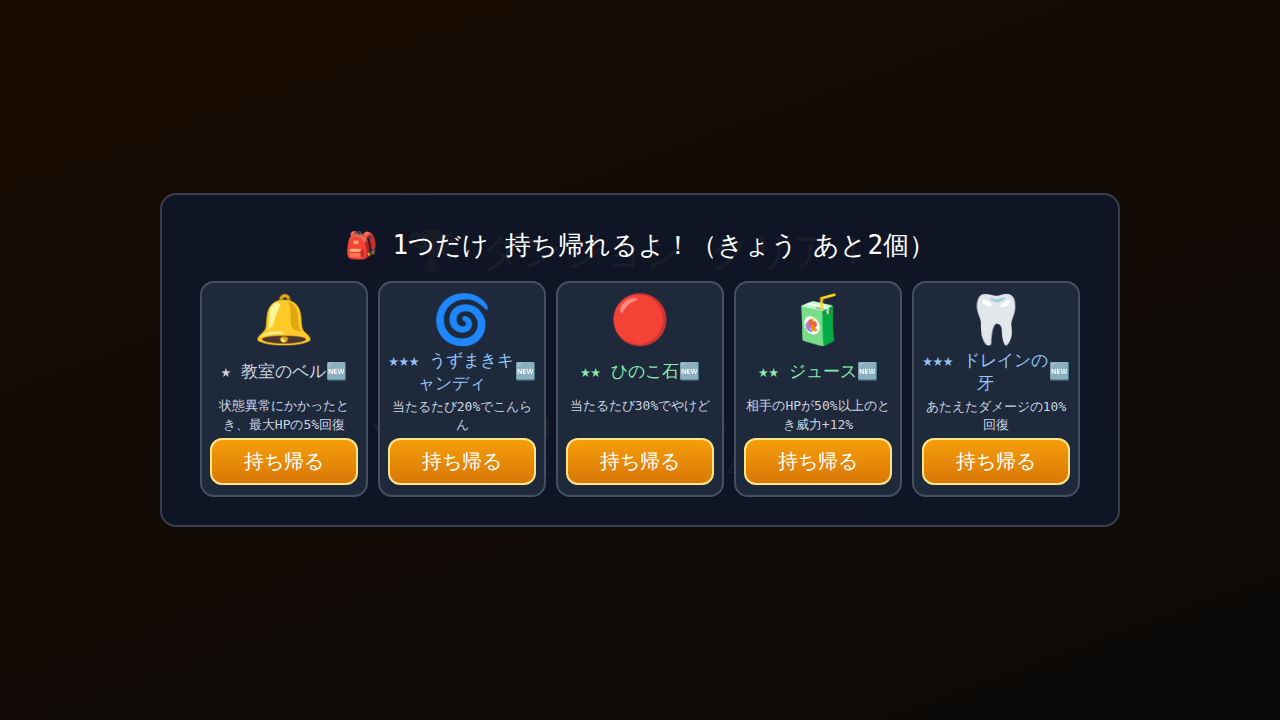
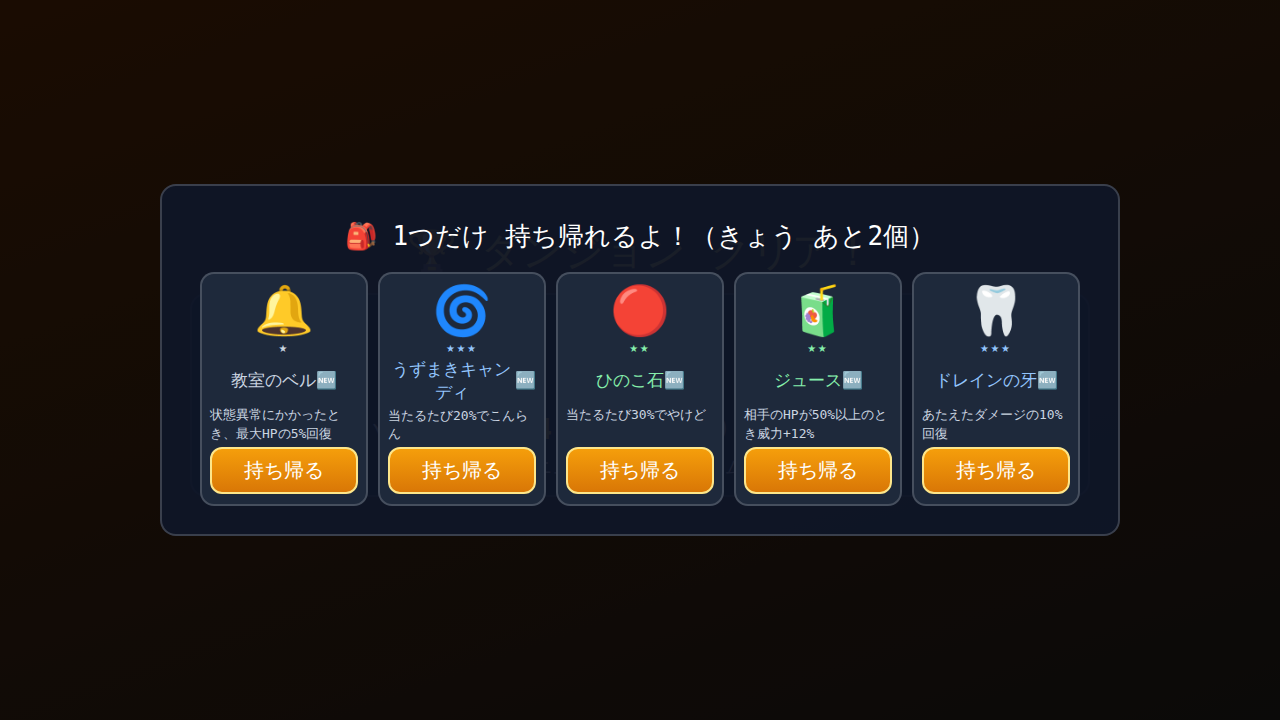
アイテムの説明を見やすく・無限の塔のテンポと入場券
- アイテムの説明：★と名前を別の行、効果は左そろえ、説明の窓を広く
- 無限の塔：問題の窓を閉じずに次の問題を出す
- 無限の塔：正解1問ごとにコイン+1（何周目でも）。25階ごとのコインはやめた
- 無限の塔：塔ごとに1日1回の入場券（くりこしなし）。前の日のつづきでゲームオーバーなら きょうの入場券でもう一度入れる。30分しばりはそのまま
- tools/tower_test.py を追加

Claude-Session: https://claude.ai/code/session_01VSVSxW2cDN42XVaoPQurWi

Changed region(s): [[0.125, 0.3056, 0.875, 0.7639], [0.125, 0.2444, 0.875, 0.275]]

diff --git a/game.js b/game.js
@@ -55,7 +55,7 @@
   function today() { const d = new Date(Date.now() - 5 * 3600e3); return `${d.getFullYear()}-${String(d.getMonth() + 1).padStart(2, '0')}-${String(d.getDate()).padStart(2, '0')}`; }
   function newState(pname, cname) {
     const st = {}; SUBJ.forEach(s => (st[s] = K.START_STAT));
-    return { v: SAVE_V, pname, cname, st, type: '全教科', coins: 0, stamina: K.STAMINA_START, day: today(), owned: [], qs: {}, qd: {}, miss: {}, takeHome: 0, lastBoss: null, dungeons: 0, created: Date.now(), run: null, qv: window.QDB_VERSION || 1, tower: {}, towerBest: {}, towerMs: 0,
+    return { v: SAVE_V, pname, cname, st, type: '全教科', coins: 0, stamina: K.STAMINA_START, day: today(), owned: [], qs: {}, qd: {}, miss: {}, takeHome: 0, lastBoss: null, dungeons: 0, created: Date.now(), run: null, qv: window.QDB_VERSION || 1, tower: {}, towerBest: {}, towerMs: 0, towerTicket: {},
       playDays: 1, clears: 0, bossWin: {}, boss3: {}, bossStg: {}, nocont: 0, typeChanged: false, ach: {}, sel: { title: '', aura: '', bg: '部室' }, fav: [], gachaN: 0 };
   }
   function dayCheck() {
@@ -167,7 +167,7 @@
   }
   function itemCard(n, extra = '') {
     const it = D.ITEM[n]; const isNew = !S.owned.includes(n);
-    return `<div class="itemcard"><div class="ie">${artItem(n)}</div><div class="in r${it.r}">${'★'.repeat(it.r)} ${esc(n)}${isNew ? ' <span class="red">🆕</span>' : ''}</div><div class="id">${esc(it.d)}</div>${extra}</div>`;
+    return `<div class="itemcard"><div class="ie">${artItem(n)}</div><div class="ir r${it.r}">${'★'.repeat(it.r)}</div><div class="in r${it.r}">${esc(n)}${isNew ? ' <span class="red">🆕</span>' : ''}</div><div class="id">${esc(it.d)}</div>${extra}</div>`;
   }
   function showItem(n) {
     return new Promise(res => {
@@ -209,18 +209,21 @@
 
   // ---- 4択（連打対策つき）。答えを押した瞬間に onAnswer が呼ばれる（そこでセーブする）----
   let fastRun = 0;
-  function ask(q, { head = '', fighter = null, onAnswer = null, extra = null, ctl = null, gauge = null } = {}) {
+  // keep：{} をわたすと 窓を閉じずに 次の問題も同じ窓に出す（無限の塔）。おわったら keep.o.remove()
+  function ask(q, { head = '', fighter = null, onAnswer = null, extra = null, ctl = null, gauge = null, keep = null } = {}) {
     return new Promise(res => {
       let done = false;
       const opts = shuffle(q.a.map((t, i) => ({ t, ok: i === 0 })));
       const lock = Math.min(3000, Math.max(1000, 600 + q.t.length * 30));
-      const o = overlay(`<div class="qbox">
+      const html = `<div class="qbox">
         <div class="qh row" style="justify-content:space-between"><span>${D.SUBJ_EMO[q.s]} ${q.s}・${q.g}年 ${head}</span>${gauge ? '<span class="qgw">問題ゲージ <span class="gauge qg"><i></i></span> <b class="qgt"></b></span>' : ''}</div>
         <div class="qt">${esc(q.t)}</div>
         <div class="lockrow"><span>⏳ よく読もう</span><div class="lockbar"><i></i></div></div>
         <div class="opts">${opts.map((p, i) => `<button data-i="${i}" disabled>${esc(p.t)}</button>`).join('')}</div>
         <div class="row" style="justify-content:flex-end;margin-top:8px;min-height:44px"><span class="megane"></span></div>
-        <div class="after"></div></div>`, 'ovq');
+        <div class="after"></div></div>`;
+      const o = keep && keep.o ? keep.o : overlay(html, 'ovq');
+      if (keep) { o.innerHTML = html; keep.o = o; }
       const btns = [...o.querySelectorAll('.opts button')];
       // バトル中：問題ゲージを 窓の中にも出す（後ろのゲージは窓にかくれるため）
       const drawG = () => { if (!gauge) return; const { m, n } = gauge(); const g = o.querySelector('.qg'); g.style.setProperty('--n', n); g.querySelector('i').style.width = Math.min(100, m * 100) + '%'; g.classList.toggle('over', m > 1.001); o.querySelector('.qgt').textContent = '×' + m.toFixed(2); };
@@ -236,7 +239,7 @@
         mb.onclick = () => { fighter.megane--; mb.remove(); let k = 0; btns.forEach((b, i) => { if (!opts[i].ok && k < 2) { b.style.visibility = 'hidden'; k++; } }); };
         o.querySelector('.megane').appendChild(mb);
       }
-      const finish = r => { if (done) return; done = true; o.remove(); res(r); };
+      const finish = r => { if (done) return; done = true; if (!keep) o.remove(); res(r); };
       if (ctl) ctl.cancel = () => finish({ cancel: true });
       if (extra) {
         const xb = document.createElement('button'); xb.className = 'btn-gray'; xb.style.fontSize = '18px'; xb.textContent = extra;
@@ -1623,44 +1626,58 @@
     return `${String(m).padStart(2, '0')}:${String(s).padStart(2, '0')}:${String(c).padStart(2, '0')}`;
   }
   function towerOrder(subj) { if (dbg('allq')) return shuffle(QBY[subj].map(q => q.id)); return [4, 5, 6].flatMap(g => shuffle(QBY[subj].filter(q => q.g === g).map(q => q.id))); }
+  // 入場券：教科ごとに 1日1回（くりこしなし）。前の日からの つづき は 前の日の入場券なので、
+  // そのまま再開でき、ゲームオーバーになっても きょうの入場券で もう一度入れる
+  const towerTicketFree = s => dbg('tower') || (S.towerTicket || {})[s] !== today();
+  function towerState(s) {
+    const t = S.tower[s];
+    if (t && t.order && t.order.length) return { kind: 'cont', t };
+    return towerTicketFree(s) ? { kind: 'new' } : { kind: 'used' };
+  }
   async function towerSelect() {
     dayCheck();
     const left = towerLimit() - S.towerMs;
-    if (left <= 0) { await dialog({ who: '🗼', text: 'きょうは もう のぼれないよ（1日30分まで）\nまた あしたの朝5時から のぼれるよ' }); return; }
+    if (left <= 0) { await dialog({ who: '🗼', text: 'きょうは もう のぼれないよ（1日30分まで）\nまた あしたの朝5時から のぼれるよ' }); return home(); }
     const el = render(`<div class="scr center" style="gap:16px">
       <div class="big">🗼 無限の塔</div>
       <div class="mid">きょうの のこり時間 <span class="gold">${fmtTime(left)}</span></div>
-      <div class="sm dim">1問＝1階。ハート3つ。3回まちがえたら 1階からやりなおし。いつでも中断できるよ</div>
+      <div class="sm dim" style="text-align:center">1問＝1階。正解するたびに 🪙+${K.TOWER_COIN}。ハート3つ。3回まちがえたら おしまい（次は1階から）<br>どの塔も 1日1回 入れる（あしたに くりこせない）。とちゅうで やめても、つづきから 再開できるよ</div>
       <div class="row" id="ts">${SUBJ.map(s => {
-        const t = S.tower[s], top = QBY[s].length;
-        return `<button data-s="${s}" style="width:220px;height:170px;border-color:${D.SUBJ_COLOR[s]};display:flex;flex-direction:column;align-items:center;justify-content:center;gap:4px">
-          <span class="mid">${D.SUBJ_EMO[s]} ${s}</span><span class="sm">${t && t.floor ? `つづきから ${t.floor + 1}階` : '1階から'}</span>
-          <span class="xs">${t ? '❤'.repeat(t.hearts) : '❤❤❤'}</span><span class="xs dim">さいこう ${S.towerBest[s] || 0}階 ／ 頂上 ${top}階</span></button>`;
+        const st = towerState(s), top = QBY[s].length, t = st.t;
+        const line = st.kind === 'cont' ? `<span class="sm gold">▶ つづきから ${t.floor + 1}階</span><span class="xs">${'❤'.repeat(t.hearts)}${'🖤'.repeat(K.TOWER_HEARTS - t.hearts)}</span>`
+          : st.kind === 'new' ? `<span class="sm">🎫 入場できる</span><span class="xs">1階から</span>` : `<span class="sm dim">きょうは 入場ずみ</span><span class="xs dim">また あした</span>`;
+        return `<button data-s="${s}" ${st.kind === 'used' ? 'disabled' : ''} style="width:220px;height:170px;border-color:${D.SUBJ_COLOR[s]};display:flex;flex-direction:column;align-items:center;justify-content:center;gap:4px">
+          <span class="mid">${D.SUBJ_EMO[s]} ${s}</span>${line}<span class="xs dim">さいこう ${S.towerBest[s] || 0}階 ／ 頂上 ${top}階</span></button>`;
       }).join('')}</div>
       <button class="btn-gray" id="bk">🏠 ホームへ</button></div>`, 'dun');
     $('#bk', el).onclick = () => home();
     el.querySelectorAll('#ts button').forEach(b => (b.onclick = () => towerRun(b.dataset.s)));
   }
   async function towerRun(subj) {
-    if (!S.tower[subj] || !S.tower[subj].order.length) { S.tower[subj] = { order: towerOrder(subj), floor: 0, hearts: K.TOWER_HEARTS }; save(); }
+    const st = towerState(subj);
+    if (st.kind === 'used') return towerSelect();
+    if (st.kind === 'new') { // きょうの入場券をつかう
+      S.towerTicket = { ...(S.towerTicket || {}), [subj]: today() };
+      S.tower[subj] = { order: towerOrder(subj), floor: 0, hearts: K.TOWER_HEARTS, day: today() }; save();
+    }
     const tw = S.tower[subj], top = tw.order.length;
     const el = render(`
       <div class="prog"><span class="mid">🗼 ${D.SUBJ_EMO[subj]} ${subj}の塔</span><span class="mid" style="margin-left:24px" id="hearts"></span>
-        <span class="coin">⏱ <b class="gold" id="timer"></b></span></div>
-      <div class="field" style="flex-direction:column;justify-content:center">
-        <div style="font-size:140px;line-height:1">🗼</div><div class="big" id="floor"></div><div class="sm dim" id="best"></div>
-      </div>
-      <div class="msg panel" id="msg" style="width:1232px"></div>
-      <div class="subjbar" id="subj"></div>`, 'dun');
+        <span class="coin"><span class="gold" id="tcoin"></span>　⏱ <b class="gold" id="timer"></b></span></div>
+      <div class="field" style="flex-direction:column;justify-content:flex-start;padding-top:20px;gap:4px">
+        <div style="font-size:120px;line-height:1">🗼</div><div class="big" id="floor"></div><div class="sm dim" id="best"></div>
+      </div>`, 'dun');
+    let got = 0;
     const upd = () => {
       $('#hearts').textContent = '❤'.repeat(tw.hearts) + '🖤'.repeat(K.TOWER_HEARTS - tw.hearts);
       $('#floor').textContent = `${tw.floor + 1}階`;
       $('#best').textContent = `さいこう ${S.towerBest[subj] || 0}階 ／ 頂上 ${top}階`;
+      $('#tcoin').textContent = `🪙 ${S.coins}${got ? `（+${got}）` : ''}`;
     };
     upd();
     // 時計（塔にいる間だけ減る）
     let last = Date.now(), lastSave = Date.now(), timeUp = false;
-    const ctl = {};
+    const ctl = {}, keep = {};
     const tick = setInterval(() => {
       const now = Date.now(); S.towerMs += now - last; last = now;
       const t = $('#timer'); if (t) t.textContent = fmtTime(towerLimit() - S.towerMs);
@@ -1671,47 +1688,38 @@
     try {
       while (!timeUp) {
         if (tw.floor >= top) { endMsg = 'top'; break; }
-        msg(`${tw.floor + 1}階の問題！ 正解すると 上の階へ。 <span class="sm dim">（25階ごとに コインがもらえるよ）</span>`);
         const q = Q[tw.order[tw.floor]];
-        let gotCoin = 0;
+        // 問題の窓は 閉じずに 次の問題を出す（テンポよく）
         const r = await ask(q, {
-          head: `（${tw.floor + 1}階）`, extra: '⏸ 中断してホームへ', ctl,
+          head: `（${tw.floor + 1}階）`, extra: '⏸ 中断する', ctl, keep,
           onAnswer: ok => {
-            if (ok) {
-              tw.floor++;
-              if (tw.floor % K.TOWER_STEP === 0) { // 25階ごと（初めて＋250／2回目から＋25）
-                gotCoin = tw.floor > (S.towerBest[subj] || 0) ? K.TOWER_COIN_FIRST : K.TOWER_COIN_AGAIN;
-                S.coins += gotCoin;
-              }
-              S.towerBest[subj] = Math.max(S.towerBest[subj] || 0, tw.floor);
-            } else tw.hearts--;
-            save();
+            if (ok) { tw.floor++; S.coins += K.TOWER_COIN; got += K.TOWER_COIN; S.towerBest[subj] = Math.max(S.towerBest[subj] || 0, tw.floor); }
+            else tw.hearts--;
+            save(); upd();
           },
         });
         if (r.cancel) break;
         if (r.quit) { endMsg = 'quit'; break; }
-        upd();
-        if (r.ok) { msg(`⭕ ${tw.floor}階 クリア！${gotCoin ? ` <span class="gold">🪙+${gotCoin}</span>` : ''}`); if (gotCoin) floatAt(600, 200, `🪙+${gotCoin}`, '#ffd54a'); }
-        else msg(`💔 ハートが へった…（のこり ${tw.hearts}）`);
-        await wait(900);
+        if (r.ok) floatAt(640, 120, `🪙+${K.TOWER_COIN}`, '#ffd54a');
         if (tw.hearts <= 0) { endMsg = 'over'; break; }
       }
-    } finally { clearInterval(tick); save(); }
+    } finally { clearInterval(tick); if (keep.o) keep.o.remove(); save(); }
     if (timeUp) {
-      await dialog({ who: '⏰', text: 'きょうはここまで！\nセーブしたから大丈夫。また明日つづきから登ろう' });
+      await dialog({ who: '⏰', text: `きょうはここまで！${got ? `（🪙+${got}）` : ''}\nセーブしたから大丈夫。また明日つづきから登ろう` });
       return home();
     }
     if (endMsg === 'over') {
       const f = tw.floor; S.tower[subj] = null; save();
-      await dialog({ who: '💔', text: `ざんねん！ ${f}階まで のぼった\n（さいこう記録 ${S.towerBest[subj] || 0}階）\n次は 1階から やりなおしだよ` });
+      const again = towerTicketFree(subj);
+      await dialog({ who: '💔', text: `ざんねん！ ${f}階まで のぼった（🪙+${got}）\n（さいこう記録 ${S.towerBest[subj] || 0}階）\n${again ? 'きのうの つづきだったので、きょうの入場券で もう一度 1階から 入れるよ' : `${subj}の塔は また あした 1階から 挑戦しよう`}` });
       return towerSelect();
     }
     if (endMsg === 'top') {
       S.tower[subj] = null; save();
-      await dialog({ who: '🏆', text: `${subj}の塔の 頂上に 到達！！ ${top}階\nすごい！ ${subj}の問題を ぜんぶ 解いたよ！` });
+      await dialog({ who: '🏆', text: `${subj}の塔の 頂上に 到達！！ ${top}階（🪙+${got}）\nすごい！ ${subj}の問題を ぜんぶ 解いたよ！` });
       return towerSelect();
     }
-    home();
+    towerSelect();
   }
 
   // =====================================================================

diff --git a/index.html b/index.html
@@ -92,10 +92,12 @@ input{font-family:var(--f);font-size:28px;padding:8px 12px;border-radius:10px;bo
 .choices{display:flex;flex-wrap:wrap;gap:12px;justify-content:center}
 .choices button{min-width:240px}
 .itemcard{display:flex;flex-direction:column;align-items:center;gap:6px;width:200px;padding:12px;border-radius:14px;background:#1e293b;border:2px solid var(--line)}
-.itemcard .ie{font-size:56px}.itemcard .in{font-size:20px}.itemcard .id{font-size:15px;color:#cbd5e1;min-height:60px;text-align:center}
+.itemcard .ie{font-size:56px}.itemcard .ir{font-size:18px;letter-spacing:2px;line-height:1}.itemcard .in{font-size:22px;line-height:1.3;text-align:center}.itemcard .id{font-size:16px;line-height:1.5;color:#cbd5e1;min-height:60px;text-align:left;align-self:stretch}
+.panel.center>.itemcard,.center>div>.itemcard{width:400px;padding:16px 20px}
 .choices.cards{display:grid;grid-template-columns:repeat(auto-fit,168px);justify-content:center;gap:10px}
 .cards .itemcard{width:auto;padding:10px 8px;gap:4px}
 .cards .itemcard .ie{font-size:48px;line-height:1.1}
+.cards .itemcard .ir{font-size:14px}
 .cards .itemcard .in{font-size:17px;line-height:1.3;min-height:44px;text-align:center;display:flex;align-items:center;justify-content:center}
 .cards .itemcard .id{font-size:13px;line-height:1.4;min-height:0;flex:1}
 .cards .itemcard button{margin-top:auto;min-width:0;width:100%}

diff --git a/data.js b/data.js
@@ -20,7 +20,7 @@ window.DATA = (function () {
     COIN_OK: 40, COIN_NG: 0, COIN_OSARAI: 10, COIN_RARE: 300, COIN_BOSS: 200,
     DROP_RATE: 0.35, RARE_RATE: 0.06, ITEM_MAX: 4, TAKEHOME_PER_DAY: 2,
     BOSS_Q: 3, VS_Q: 5, BOSS_ACC: 0.68, BOSS_POWER: 0.85,
-    COIN_REVIEW: 40, COIN_REVIEW2: 10, TOWER_MS: 30 * 60 * 1000, TOWER_STEP: 25, TOWER_COIN_FIRST: 250, TOWER_COIN_AGAIN: 25, TOWER_HEARTS: 3,
+    COIN_REVIEW: 40, COIN_REVIEW2: 10, TOWER_MS: 30 * 60 * 1000, TOWER_COIN: 1, /* 塔：正解1問ごと（何周目でも） */ TOWER_HEARTS: 3,
     STAGE_LINE: [1500, 3500],           // ステータス合計でボス・見た目の段階が変わる
     SKILL_LINE: { 連続攻撃: 650, ガードバッシュ: 800, ドレイン: 1300, かんつう: 1800, カウンター: 2500, パワーシュート: 3200, ふういん: 4200 },
   };

diff --git a/tools/tower_test.py b/tools/tower_test.py
@@ -1,0 +1,72 @@
+# まなびバトル 無限の塔（入場券・コイン・窓を閉じない）のテスト（Playwright）
+# 使い方: python3 tools/tower_test.py
+import pathlib
+from playwright.sync_api import sync_playwright
+
+URL = (pathlib.Path(__file__).resolve().parent.parent / 'index.html').as_uri() + '?test'
+BOT = pathlib.Path(__file__).with_name('play_test.py').read_text().split('BOT = """')[1].split('"""')[0]
+errors, fails = [], []
+def check(c, m):
+    print(('OK  ' if c else 'NG  ') + m)
+    if not c: fails.append(m)
+
+with sync_playwright() as p:
+    b = p.chromium.launch(); pg = b.new_page(viewport={'width': 1280, 'height': 720})
+    pg.on('pageerror', lambda e: errors.append(str(e)))
+    pg.add_init_script('window.FAST = true')
+    pg.goto(URL)
+    pg.fill('#pn', 'テスト'); pg.fill('#cn', 'モン'); pg.click('#go'); pg.wait_for_timeout(100)
+    W = pg.wait_for_timeout
+    def answer(ok):
+        pg.wait_for_selector('.qbox .opts button:not([disabled])')
+        pg.evaluate("""(ok)=>{const q=document.querySelector('.qbox');const t=q.querySelector('.qt').textContent;const qq=Object.values(MB.Q).find(x=>x.t===t);
+          [...q.querySelectorAll('.opts button')].find(b=>ok?b.textContent===qq.a[0]:b.textContent!==qq.a[0]).click()}""", ok)
+        if not ok:
+            pg.wait_for_selector('.qbox .after button:not([disabled])'); pg.click('.qbox .after button')
+        W(80)
+
+    c0 = pg.evaluate('MB.S.coins')
+    pg.click('#tow'); W(100)
+    check('入場できる' in pg.inner_text('#ts button[data-s="算数"]'), 'はじめは 入場できる')
+    pg.click('#ts button[data-s="算数"]'); W(100)
+    ov = pg.evaluate("document.querySelector('.ov.ovq')")
+    pg.evaluate("window._ov = document.querySelector('.ov.ovq')")
+    for _ in range(3): answer(True)
+    check(pg.evaluate("window._ov === document.querySelector('.ov.ovq') && document.querySelectorAll('.ov.ovq').length===1"), '問題の窓は 閉じずに 同じ窓で 次の問題')
+    check(pg.evaluate('MB.S.coins') - c0 == 3, '正解1問ごとに コイン+1')
+    # 中断 → 同じ日は つづきから入れる
+    pg.click('.qbox .megane button:last-child'); W(150)
+    check(pg.locator('.ov').count() == 0 and pg.locator('#ts').count() == 1, '中断すると 塔の入口へ（窓が のこらない）')
+    check('つづきから 4階' in pg.inner_text('#ts button[data-s="算数"]'), '中断しても つづきから')
+    # ゲームオーバー（きょうの入場券で入った）→ きょうは もう入れない
+    pg.click('#ts button[data-s="算数"]'); W(100)
+    for _ in range(3): answer(False)
+    pg.wait_for_selector('.ov .choices button'); txt = pg.inner_text('.ov')
+    check('また あした' in txt, 'きょう入った塔で おわり → また あした')
+    pg.click('.ov .choices button'); W(100)
+    check(pg.locator('#ts button[data-s="算数"]').is_disabled(), 'きょうは もう その塔に入れない')
+    check(not pg.locator('#ts button[data-s="国語"]').is_disabled(), 'ほかの塔には入れる')
+    # 次の日：きのうの つづき → ゲームオーバーしても きょうの入場券で もう一度
+    pg.click('#ts button[data-s="国語"]'); W(100)
+    answer(True); pg.click('.qbox .megane button:last-child'); W(100)
+    pg.evaluate("MB.S.day='2000-01-01'; for (const k in MB.S.towerTicket) MB.S.towerTicket[k]='2000-01-01'; MB.S.tower['国語'].day='2000-01-01'")
+    pg.evaluate("void MB.go.towerSelect()"); W(100)
+    check(pg.evaluate('MB.S.towerMs') == 0, '次の日は 30分がもどる')
+    check('入場できる' in pg.inner_text('#ts button[data-s="算数"]'), '次の日：入場券がもどる（算数）')
+    check('つづきから 2階' in pg.inner_text('#ts button[data-s="国語"]'), '次の日：きのうの つづきから（国語）')
+    pg.click('#ts button[data-s="国語"]'); W(100)
+    for _ in range(3): answer(False)
+    pg.wait_for_selector('.ov .choices button'); txt = pg.inner_text('.ov')
+    check('もう一度' in txt, 'きのうの つづきで おわり → きょうの入場券で もう一度 入れる')
+    pg.click('.ov .choices button'); W(100)
+    check('入場できる' in pg.inner_text('#ts button[data-s="国語"]'), 'もう一度 1階から 入れる')
+    pg.click('#ts button[data-s="国語"]'); W(100)
+    for _ in range(3): answer(False)
+    pg.wait_for_selector('.ov .choices button'); pg.click('.ov .choices button'); W(100)
+    check(pg.locator('#ts button[data-s="国語"]').is_disabled(), '2回目（きょうの入場券）で おわったら もう入れない')
+    # 30分しばり
+    pg.evaluate("MB.S.towerMs = 30*60*1000"); pg.evaluate("void MB.go.towerSelect()"); W(100)
+    check('30分まで' in pg.inner_text('.ov'), '30分しばりは そのまま')
+    b.close()
+
+print('errors:', errors or 'なし'); print('NG:', fails or 'なし')

diff --git a/tools/mode_test.py b/tools/mode_test.py
@@ -64,11 +64,12 @@ with sync_playwright() as p:
     check(pg.evaluate("MB.S.towerBest['算数']") >= f, 'ハート0 → 最高記録はのこり、塔はリセット')
     pg.click('#bk')
     pg.wait_for_timeout(100)
-    # 25階でコイン
+    # 1問ごとにコイン+1
     c0 = pg.evaluate("MB.S.coins")
     pg.evaluate("MB.S.tower['国語'] = null"); pg.click('#tow'); pg.wait_for_timeout(100); pg.click('#ts button[data-s="国語"]')
     loop(1.0, "MB.S.tower['国語'] && MB.S.tower['国語'].floor >= 25", 6000)
-    check(pg.evaluate("MB.S.coins") - c0 == 250, f'25階で +250（{pg.evaluate("MB.S.coins") - c0}）')
+    pg.wait_for_timeout(100)
+    check(pg.evaluate("MB.S.coins") - c0 == pg.evaluate("MB.S.tower['国語'].floor"), f'1問ごとに +1（{pg.evaluate("MB.S.coins") - c0}）')
     # 時間切れ
     pg.evaluate("MB.S.towerMs = 30*60*1000 - 300")
     pg.wait_for_timeout(600)

diff --git a/docs/SPEC.md b/docs/SPEC.md
@@ -256,14 +256,17 @@
 - 問題はランダムだが、4年 → 5年 → 6年 の順に出る。同じ問題は出ない
 - その教科の問題数で終わり（500問なら500階が頂上）
 - **ハート3つ**（❤❤❤）。3回まちがえたら終了 → 次は1階からやりなおし
-- いつでも中断できる（ホームにもどっても、ブラウザを閉じても続きから）
+- いつでも中断できる（塔の入口にもどっても、ブラウザを閉じても続きから）
 - **時間制限**：1日合計30分（毎朝5時にリセット）。塔にいる間だけ画面上に残り時間（30:00:00）が減っていく。0になったら進み具合を自動セーブし、「きょうはここまで！ セーブしたから大丈夫。また明日つづきから登ろう」と表示してからホームにもどる
 - 対戦には時間制限なし
 - 教科ごとに **最高到達階をセーブに記録**
 - **正誤は記録しない**（育成ダンジョンでは「まだ」の扱いのまま。復習ダンジョンにも入らない）
-- まなびコイン：25階ごとに
-  - 初めて到達：＋250（教科ごと。完全踏破で＋5000＝ガチャ5回分、5教科で25回分）
-  - 2回目以降の到達：＋25（完全踏破で＋500＝0.5回分）
+- まなびコイン：正解1問ごとに ＋1（何周目でも同じ）
+- **入場券**：塔ごとに1日1回（毎朝5時にもどる。あしたにくりこせない）
+  - 入場券で入ると1階から。中断しても、その日も次の日も つづきから再開できる（再開には入場券を使わない）
+  - 前の日からのつづきでゲームオーバー → それは前の日の入場券なので、きょうの入場券で もう一度1階から入れる
+  - 1日30分の時間制限は そのまま（全部の塔の合計）
+- 問題の窓は閉じずに、同じ窓で次の問題が出る（テンポよく）
 
 ## 12. 問題リスト
 - 教科ごとに問題と解説を読める（予習もできる）

diff --git a/HANDOFF.md b/HANDOFF.md
@@ -96,6 +96,8 @@
   - アイテムをえらぶカード（S15 など）：同じ大きさで横にそろえる・ボタンの高さもそろえる
   - ホームに「📈 せいちょう・スキル」（S36）：進化まであといくつ・次のスキルまであといくつ・スキル一覧（おぼえていないものは 必要なごうけい）
   - S09・S10（スキル・教科えらび）は今のままでOK（先生）
+  - アイテムの説明（S23 など全部）：★と名前を別の行に、効果は左そろえ。説明の窓を広く
+  - 無限の塔：問題の窓を閉じずに次の問題／正解1問ごとに🪙+1（25階ごとのコインは やめた）／塔ごとに1日1回の入場券（前の日のつづきでゲームオーバーなら、きょうの入場券でもう一度）。テスト：`python3 tools/tower_test.py`
   - 問題ゲージ：全問正解で ちょうど満タン（前は ×1.6 を満タンにしていて、たまりきらなかった）。問題の数だけ くぎり線。アイテムで1倍をこえると 虹色に光る。バトル中は 問題の窓の中にも出す
 - 決めたこと：ボス撃破報酬のアイテムはリザルトの持ち帰り候補にまぜる（持ち帰りは全部で1個）／ボス戦で解いた問題が足りないときは新しい問題で補う（正誤は記録しない）
 - 仮で決めた数字（④で調整）：`data.js` の `K`（スキル解禁ライン、ボスの強さ BOSS_POWER・正答率 BOSS_ACC、ドロップ率など）
